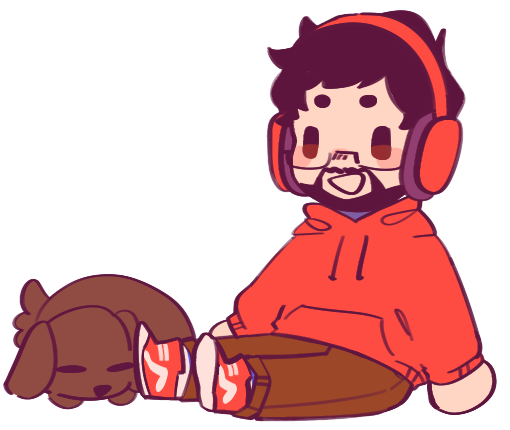
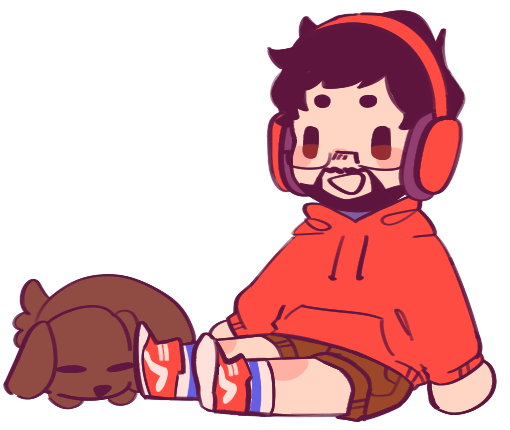
Pictures

Changed region(s): [[0.4118, 0.7558, 0.7941, 0.9977], [0.3529, 0.786, 0.4118, 0.9372], [0.7647, 0.8767, 0.7941, 0.907]]

diff --git a/index.html b/index.html
@@ -65,7 +65,7 @@
         </div>
         <div class="image-container">
             <div class="image-container">
-                <img src="img/Picture0.0-.png" alt="Foto de Javier Alarcon" class="Foto" id="profile-picture">
+                <img src="img/Picture0-dark.png" alt="Foto de Javier Alarcon" class="Foto" id="profile-picture">
             </div>
         </div>
     </section>
